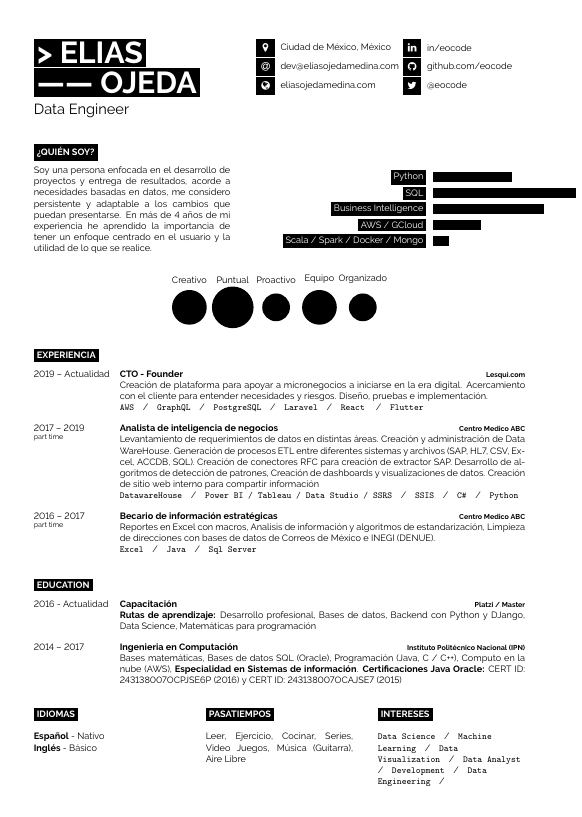
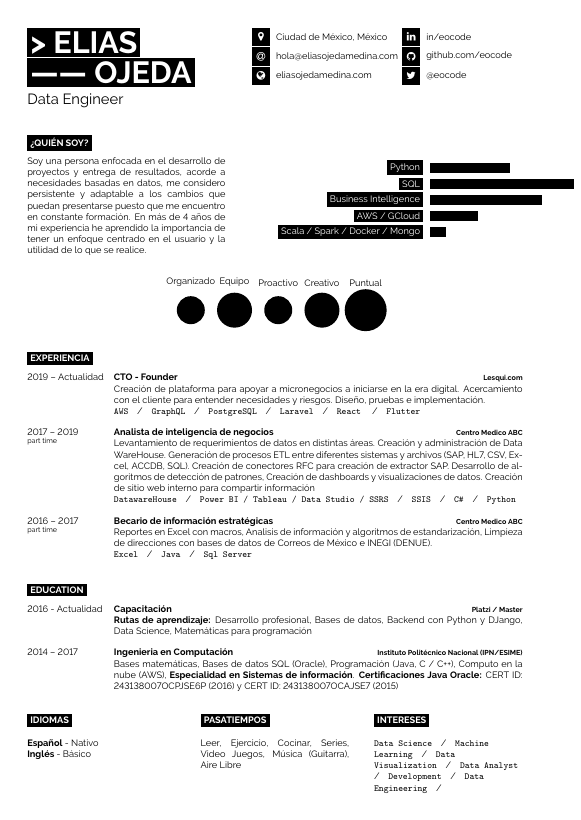
:apple: Update Readme file

diff --git a/CV-Elias Ojeda Medina.tex b/CV-Elias Ojeda Medina.tex
@@ -14,11 +14,11 @@
 	
 	{\huge Data Engineer} % Career or current job title
 \end{minipage}
-\begin{minipage}[t]{0.295\textwidth} % 27.5% of the page width for the first row of icons
+\begin{minipage}[t]{0.300\textwidth} % 27.5% of the page width for the first row of icons
 	\vspace{-\baselineskip} % Required for vertically aligning minipages
 	
 	\icon{MapMarker}{12}{Ciudad de México, México}\\
-	\icon{At}{12}{\href{mailto:hi@eliasojedamedina.com}{dev@eliasojedamedina.com}}\\
+	\icon{At}{12}{\href{mailto:hola@eliasojedamedina.com}{hola@eliasojedamedina.com}}\\
 	\icon{Globe}{12}{\href{https://eliasojedamedina.com}{eliasojedamedina.com}}\\
 \end{minipage}
 \begin{minipage}[t]{0.275\textwidth} % 27.5% of the page width for the second row of icons
